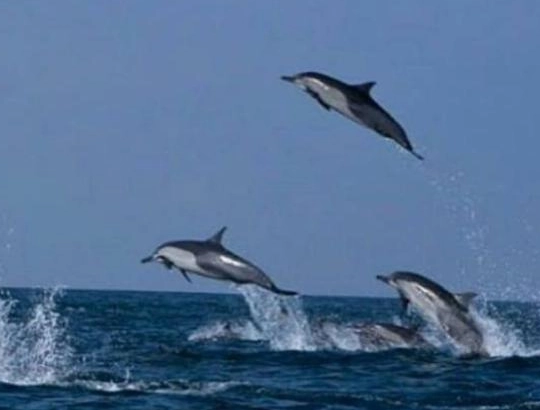
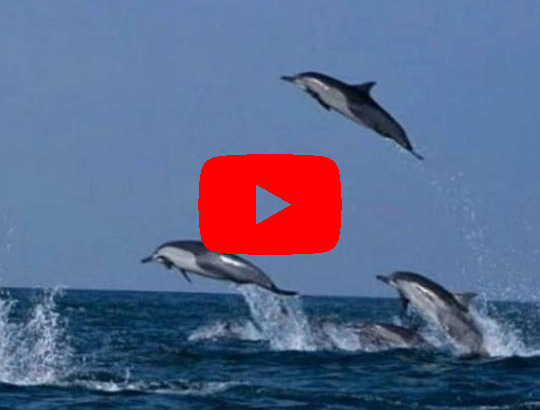
Insertar videos faciles
hay mejor solucion con JS pero por ahora se queda asi

Changed region(s): [[0.3556, 0.3512, 0.6519, 0.6439]]

diff --git a/js/elements.js b/js/elements.js
@@ -462,5 +462,3 @@ $(document).ready(function()
 });
 
 
-
-

diff --git a/home.php b/home.php
@@ -238,7 +238,7 @@
   <div class="home_tours" id="target_tours">
             <div class="section_title d-flex flex-column align-items-center justify-content-center">
               <div>Tours</div>
-              <h1>Book with us</h1>
+              <h1>Book Tours with us directly</h1>
     </div>
 
     <!-- Discover Slider -->
@@ -311,7 +311,7 @@
         <!-- Offer Item -->
         <div class="col-xl-4 col-md-6">
           <div class="offer">
-            <div loading="lazy" class="offer_image"><img src="..\images\offer_2.webp" alt="Turtle"></div>
+            <div loading="lazy" class="offer_image"><a href="https://www.youtube.com/shorts/7U1ZoGrI4lY" target="_blank"><img src="..\images\offer_2.webp" alt="Turtle"></a></div>
             <div class="offer_content text-center">
               <div class="offer_title"><h3>Turtle</h3></div>
               <div class="offer_text">
@@ -325,13 +325,12 @@
         <!-- Offer Item -->
         <div class="col-xl-4 col-md-6">
           <div class="offer">
-            <div loading="lazy" class="offer_image"><img src="..\images\offer_3.webp" alt="Dolphin Tour"></div>
+            <div loading="lazy" class="offer_image"><a href="https://www.youtube.com/watch?v=noG86zwWOLA" target="_blank"><img src="..\images\offer_3.webp" alt="Dolphin Tour"></a></div>
             <div class="offer_content text-center">
               <div class="offer_title"><h3>Dolphin Tour</h3></div>
               <div class="offer_text">
               <p> Hundreds of dolphins will follow the boat as it jumps. Our clients say it was the best experience of their trip to Oman and one of the best of their lives. </p>    
             </div>
-           
             </div>
           </div>
         </div>
@@ -339,22 +338,22 @@
         <!-- Offer Item -->
         <div class="col-xl-4 col-md-6">
           <div class="offer">
-            <div loading="lazy" class="offer_image"><img src="..\images\offer_4.webp" alt="Fishing Tour"></div>
+            <div loading="lazy" class="offer_image"><a href="https://www.youtube.com/shorts/Wh_8at5EM6w" target="_blank"><img src="..\images\offer_4.webp" alt="Fishing Tour"></a></div>
             <div class="offer_content text-center">
               <div class="offer_title"><h3>Fishing Tour</h3></div>
               <div class="offer_text">
               <p> It makes no difference if you are an experienced angler or if this is your first time fishing. You will fish in the Omani style. </p>
             </div>
-           
             </div>
           </div>
         </div>
 
         <!-- Offer Item -->
+        <div class="clip">
         <div class="col-xl-4 col-md-6">
           <div class="offer">
-            <div loading="lazy" class="offer_image"><img src="..\images\offer_5.webp" alt="Omani BBQ for dinner"></div>
-            <div class="offer_content text-center">
+            <div loading="lazy" class="offer_image"><a href="https://www.youtube.com/shorts/fVHxP0201qc" target="_blank"><img src="..\images\offer_5.webp" alt="Omani BBQ for dinner"></a></div>
+              <div class="offer_content text-center">
               <div class="offer_title"><h3>Omani BBQ for dinner</h3></div>
               <div class="offer_text">
               <p>We make it Omani style! Salem will go to the market to look for lobsters, tuna, lamb... or you will eat the b>catch of the day/b> from a fishing tour. BBQ. Everything is very fresh and delicious. Please notify us in advance if you have any food allergies or are vegan/vegetarian.</p>
@@ -362,11 +361,12 @@
             </div>
           </div>
         </div>
+       
 
         <!-- Offer Item -->
         <div class="col-xl-4 col-md-6">
           <div class="offer">
-            <div loading="lazy" class="offer_image"><img src="..\images\offer_6.webp" alt="Desert Tour"></div>
+            <div loading="lazy" class="offer_image"><a href="https://www.youtube.com/watch?v=IfhCKfFKnOU" target="_blank"><img src="..\images\offer_6.webp" alt="Desert Tour"></a></div>
             <div class="offer_content text-center">
               <div class="offer_title"><h3>Desert Tour</h3></div>
               <div class="offer_text">
@@ -381,7 +381,6 @@
   </div> 
   </div>  
   </div>  
-
 <!-- Tours Price list -->
   
 
